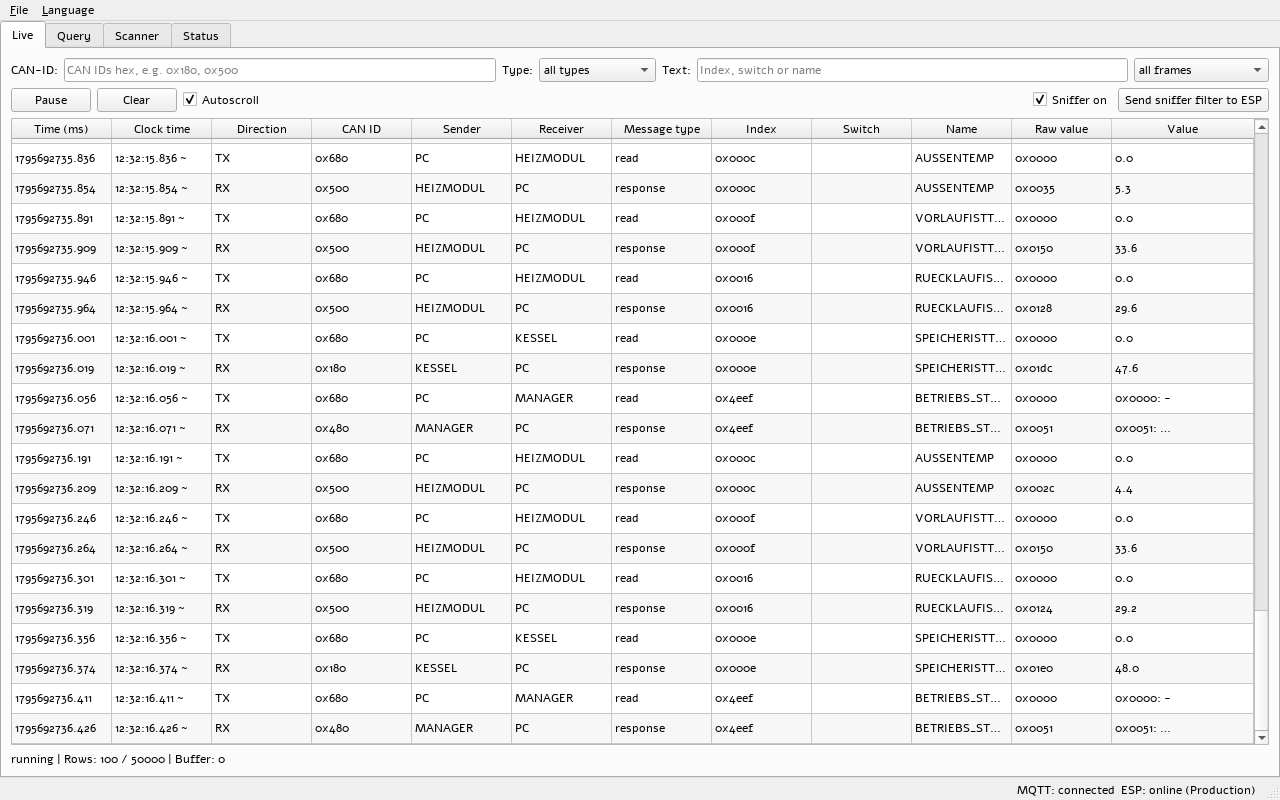
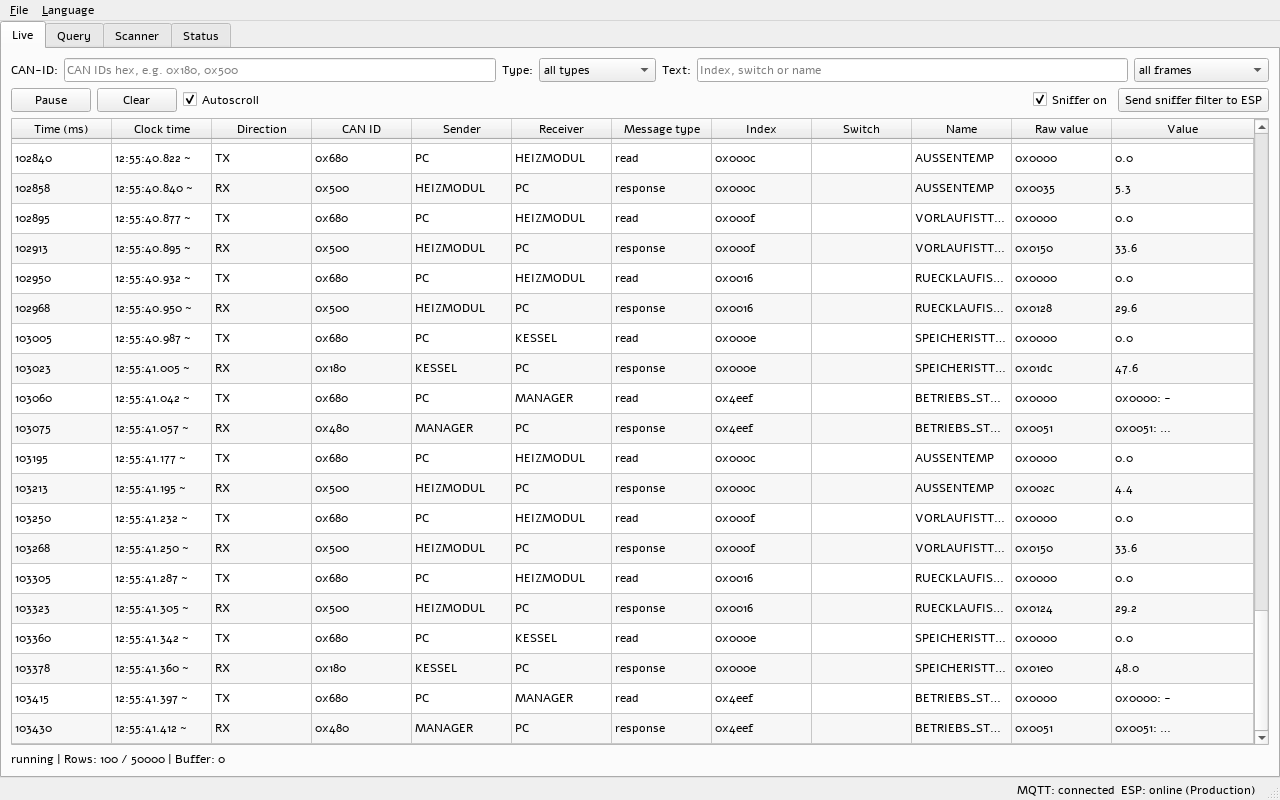
fix: show ms since ESP boot in the Live column "Time (ms)"
The column showed Unix seconds when a timestamp was known, which did
not match its header and duplicated "Clock time". It now always shows
t and sorts by t. The PC-estimate tooltip stays on "Clock time" only.

diff --git a/tests/test_tab_live_time.py b/tests/test_tab_live_time.py
@@ -65,17 +65,13 @@ def test_time_without_ts_shows_t_and_no_clock(app, db):
     assert model.data(model.index(0, _col("Time (ms)")), Qt.ToolTipRole) is None
 
 
-def test_time_with_ts_shows_unix_seconds_three_decimals(app, db):
+def test_time_with_ts_still_shows_t_in_ms(app, db):
+    # "Time (ms)" always shows t (ms since ESP boot); the wall-clock time is in "Clock time".
     model = _model(db, [F8_TS])
-    assert _cell(model, 0, _col("Time (ms)")) == "1761038123.456"
+    assert _cell(model, 0, _col("Time (ms)")) == "1000"
     assert _cell(model, 0, _col("Clock time")) == _clock(TS)
     assert len(_clock(TS)) == 12  # HH:MM:SS.mmm
     assert model.data(model.index(0, _col("Clock time")), Qt.ToolTipRole) is None
-
-
-def test_ts_three_decimals_padded(app, db):
-    model = _model(db, [dict(F8, ts=1761038123.5)])
-    assert _cell(model, 0, _col("Time (ms)")) == "1761038123.500"
 
 
 def test_pc_source_marks_clock_and_tooltip(app, db):
@@ -83,19 +79,34 @@ def test_pc_source_marks_clock_and_tooltip(app, db):
     idx = model.index(0, _col("Clock time"))
     assert _cell(model, 0, _col("Clock time")) == _clock(TS) + " ~"
     assert model.data(idx, Qt.ToolTipRole) == "PC estimate"
+    # t comes from the ESP, so the "Time (ms)" column has no PC hint
+    assert model.data(model.index(0, _col("Time (ms)")), Qt.ToolTipRole) is None
 
 
-def test_sort_key_numeric_by_ts(app, db):
+def test_sort_clock_column_numeric_by_ts(app, db):
     # Lexicographic order would put "1000.250" before "999.500"; numeric order does not.
     a = dict(F8, t=10, ts=1000.25)
     b = dict(F8, t=5000, ts=999.5)
     model = _model(db, [a, b])
-    assert model.data(model.index(0, 0), tab_live.SORT_ROLE) == 1000.25
+    assert model.data(model.index(0, 1), tab_live.SORT_ROLE) == 1000.25
+    proxy = tab_live._FilterProxy()
+    proxy.setSourceModel(model)
+    proxy.sort(1, Qt.AscendingOrder)
+    order = [model.record(proxy.mapToSource(proxy.index(r, 0)).row()).ts for r in range(2)]
+    assert order == [999.5, 1000.25]
+
+
+def test_sort_time_column_numeric_by_t(app, db):
+    # Column 0 sorts by t, numerically ("999" before "10000"), even when ts says otherwise.
+    a = dict(F8, t=10000, ts=999.5)
+    b = dict(F8, t=999, ts=1000.25)
+    model = _model(db, [a, b])
+    assert model.data(model.index(0, 0), tab_live.SORT_ROLE) == 10000.0
     proxy = tab_live._FilterProxy()
     proxy.setSourceModel(model)
     proxy.sort(0, Qt.AscendingOrder)
-    order = [model.record(proxy.mapToSource(proxy.index(r, 0)).row()).ts for r in range(2)]
-    assert order == [999.5, 1000.25]
+    order = [model.record(proxy.mapToSource(proxy.index(r, 0)).row()).t for r in range(2)]
+    assert order == [999, 10000]
 
 
 def test_sort_key_falls_back_to_t(app, db):
@@ -117,7 +128,8 @@ def test_rows_roundtrip_keeps_ts_and_src(app, db):
 
     again = _model(db, rows)
     assert again.rows() == rows
-    assert _cell(again, 0, _col("Time (ms)")) == "1761038123.456"
+    assert _cell(again, 0, _col("Time (ms)")) == "1000"
+    assert _cell(again, 0, _col("Clock time")) == _clock(TS)
     assert _cell(again, 1, _col("Time (ms)")) == "1040"
 
 

diff --git a/gui/tab_live.py b/gui/tab_live.py
@@ -59,7 +59,7 @@ MODE_LATEST = "last value per index"
 SYSTEM_NAME = "SYSTEM_0xFE"
 SYSTEM_TYPE_NAMES = {6: _("system"), 7: _("system-resp")}
 
-TIME_COLUMNS = (0, 1)        # "Time (ms)" and "Clock time": sort by ts (else t)
+TIME_COLUMNS = (0, 1)        # "Time (ms)": sort by t; "Clock time": sort by ts (else t)
 SORT_ROLE = int(Qt.UserRole) + 1
 PC_HINT = _("PC estimate")      # ts_src == 'pc': timestamp estimated by the PC
 
@@ -84,8 +84,8 @@ def _hex_or_empty(v, fmt: str) -> str:
 
 
 def _time_text(rec: _Rec) -> str:
-    """Column 'Time (ms)': Unix time with 3 decimals if ts, else t."""
-    return str(rec.t) if rec.ts is None else "%.3f" % rec.ts
+    """Column 'Time (ms)': t = ms since ESP boot. The wall-clock time is in 'Clock time'."""
+    return str(rec.t)
 
 
 def _clock_text(rec: _Rec) -> str:
@@ -97,8 +97,13 @@ def _clock_text(rec: _Rec) -> str:
 
 
 def _time_key(rec: _Rec) -> float:
-    """Sort key of the time columns: ts, else t."""
+    """Sort key of 'Clock time': ts, else t."""
     return float(rec.t) if rec.ts is None else rec.ts
+
+
+def _sort_key(rec: _Rec, column: int) -> float:
+    """Sort key of the time columns: column 0 by t, column 1 by ts (else t)."""
+    return float(rec.t) if column == 0 else _time_key(rec)
 
 
 def _decode(db: ElsterDb, seq: int, frame: dict) -> _Rec:
@@ -193,9 +198,9 @@ class FrameTableModel(QAbstractTableModel):
         rec = self._recs[index.row()]
         c = index.column()
         if role == SORT_ROLE:
-            return _time_key(rec) if c in TIME_COLUMNS else None
+            return _sort_key(rec, c) if c in TIME_COLUMNS else None
         if role == Qt.ToolTipRole:
-            if c in TIME_COLUMNS and rec.ts_src == "pc":
+            if c == 1 and rec.ts_src == "pc":
                 return PC_HINT
             return None
         if role != Qt.DisplayRole:

diff --git a/docs/INTERFACES.md b/docs/INTERFACES.md
@@ -347,6 +347,7 @@ Type 0 (`d0 & 0x0F == 0`), sender 0x680, DLC 7. `d0 = ((id >> 3) & 0xF0) | 0x00`
 - `ts`: Unix seconds (float), rounded to 3 decimal places. `ts_src`: `"esp"` (from `u`) or `"pc"` (estimate).
 - Fallback `pc` (`ClockSync`): per batch, arrival (PC) − t/1000 = offset + latency. The smallest offset since the last reset is used. Reset when a batch contains a smaller `t` than before (ESP restart). Only frames without `u` feed the estimate.
 - Accuracy: `pc` approx. 10–50 ms, SNTP (`esp`) approx. 1–5 ms.
+- Live tab (`tab_live.py`): column "Time (ms)" always shows `t` and sorts by `t`. Column "Clock time" shows `ts` as local time `hh:mm:ss.mmm` (suffix ` ~` and tooltip if `ts_src` is `pc`) and sorts by `ts`, else `t`.
 
 ### 11.3 Files
 - CSV (`export_io.py`): columns `t;zeit_unix;zeit_lokal;…`. `zeit_unix` = `ts` with 3 decimal places. `zeit_lokal` = PC local time `JJJJ-MM-TT hh:mm:ss.mmm`. Without `ts` both stay empty.
